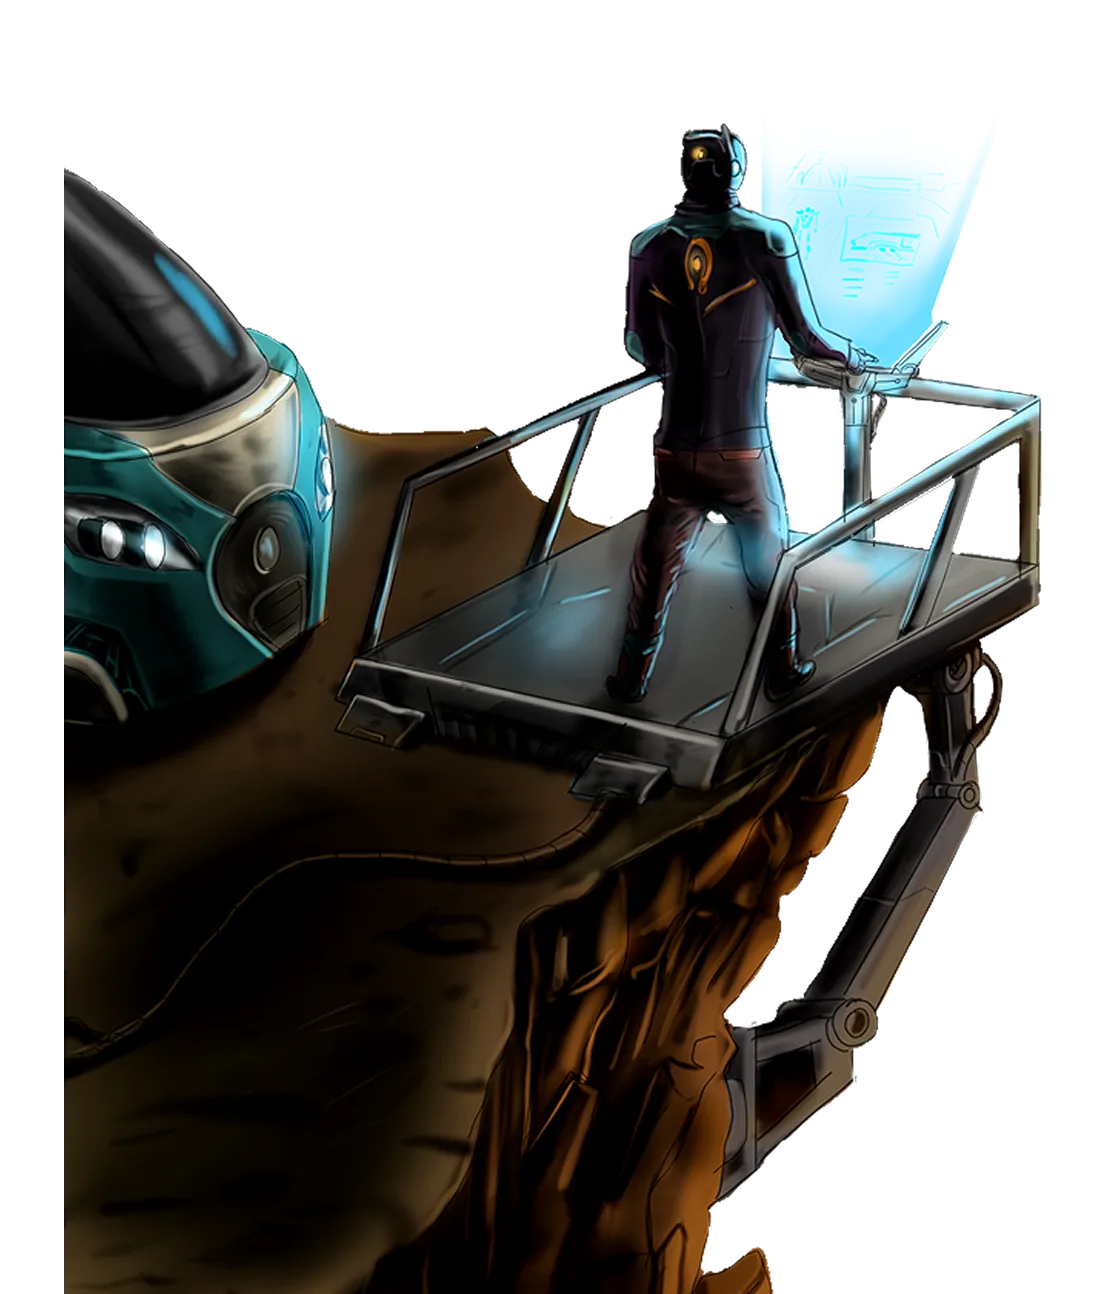
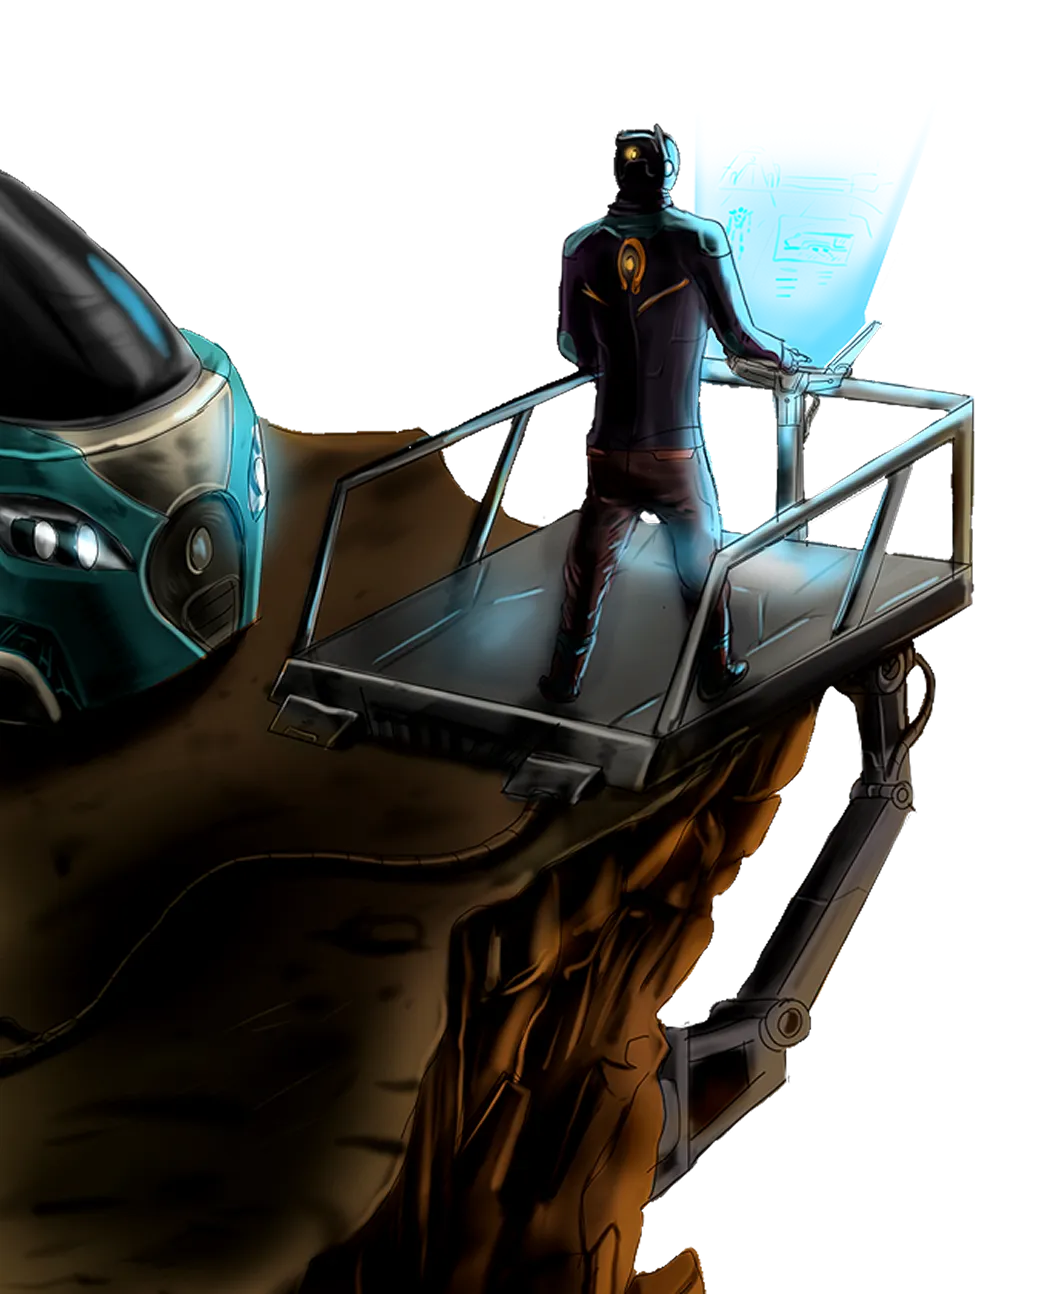
.png to .webp renaming

diff --git a/src/components/Header.jsx b/src/components/Header.jsx
@@ -5,8 +5,8 @@ export default function Header() {
 
   const btnState = isButtonOn ? "on" : "off";
   const btnStyle = isButtonOn
-    ? "absolute top-7 left-4 w-18 h-16"
-    : "absolute top-8 left-4 w-18 h-14";
+    ? "absolute top-10 left-5 w-19 h-17"
+    : "absolute top-11 left-5 w-19 h-15";
 
   function toggleBUtton() {
     setIsButtonOn((prev) => !prev);
@@ -14,19 +14,19 @@ export default function Header() {
 
   return (
     <header>
-      <div className="relative h-screen w-full">
-        <img src="/images/header-background.png" alt="background" className="object-cover" />
+      <div className="relative z-0 h-[25vh] w-full">
+        <img src="/images/header-background.webp" alt="background" className="object-cover" />
         <button onClick={toggleBUtton}>
           <img
-            src={`/images/button-${btnState}.png`}
+            src={`/images/button-${btnState}.webp`}
             alt={`button ${btnState}`}
             className={btnStyle}
           />
         </button>
         <img
-          src="/images/google-play.png"
+          src="/images/google-play.webp"
           alt="google play"
-          className="absolute top-8 right-1 h-20 w-34"
+          className="absolute top-10 right-1 h-20 w-44"
         />
       </div>
     </header>

diff --git a/src/components/Hero.jsx b/src/components/Hero.jsx
@@ -2,7 +2,7 @@ import Arch from "./Arch";
 
 export default function Hero() {
   return (
-    <section className="relative flex-1 overflow-hidden">
+    <section className="relative z-10 h-screen overflow-hidden">
       <img
         src="/images/sky.webp"
         alt="sky"
@@ -11,13 +11,13 @@ export default function Hero() {
       <img
         src="/images/city.webp"
         alt="city"
-        className="absolute bottom-0 left-0 h-[clamp(280px,28vw,360px)] w-full object-cover object-bottom"
+        className="absolute bottom-0 left-0 h-[clamp(180px,28vw,360px)] w-full object-cover object-bottom"
       />
       <Arch />
       <img
         src="/images/contractor.webp"
         alt="contractor"
-        className="absolute bottom-0 left-0 h-86 w-96"
+        className="absolute bottom-0 left-0 h-96 w-102 translate-y-[8%]"
       />
     </section>
   );

diff --git a/src/App.jsx b/src/App.jsx
@@ -1,16 +1,16 @@
 import gsap from "gsap";
 import { ScrollTrigger } from "gsap/all";
-import {Header, Hero} from "./components/_index";
+import { Header, Hero } from "./components/_index";
 
 gsap.registerPlugin(ScrollTrigger);
 
 function App() {
-	return (
-		<main>
-			<Hero />
-			{/* <Header /> */}
-		</main>
-	);
+  return (
+    <main>
+      <Hero />
+      <Header />
+    </main>
+  );
 }
 
 export default App;

diff --git a/src/index.css b/src/index.css
@@ -32,5 +32,5 @@ body {
 }
 
 main {
-  @apply flex h-svh w-full flex-col overflow-hidden;
+  @apply flex min-h-svh w-full flex-col overflow-hidden;
 }
